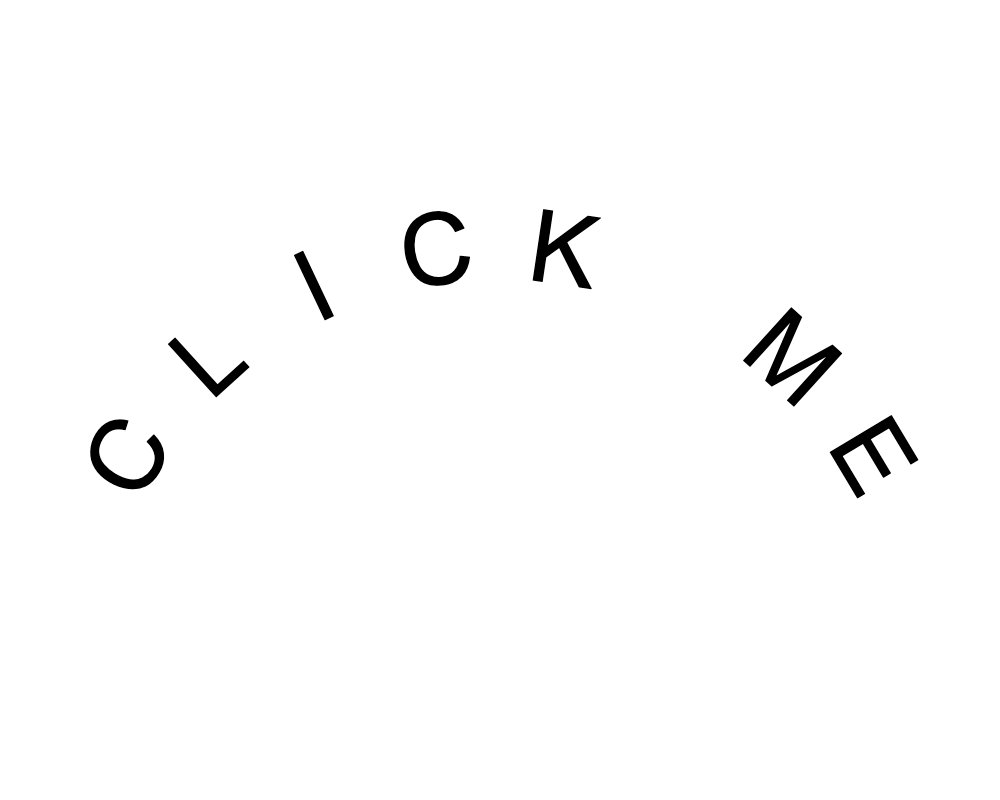
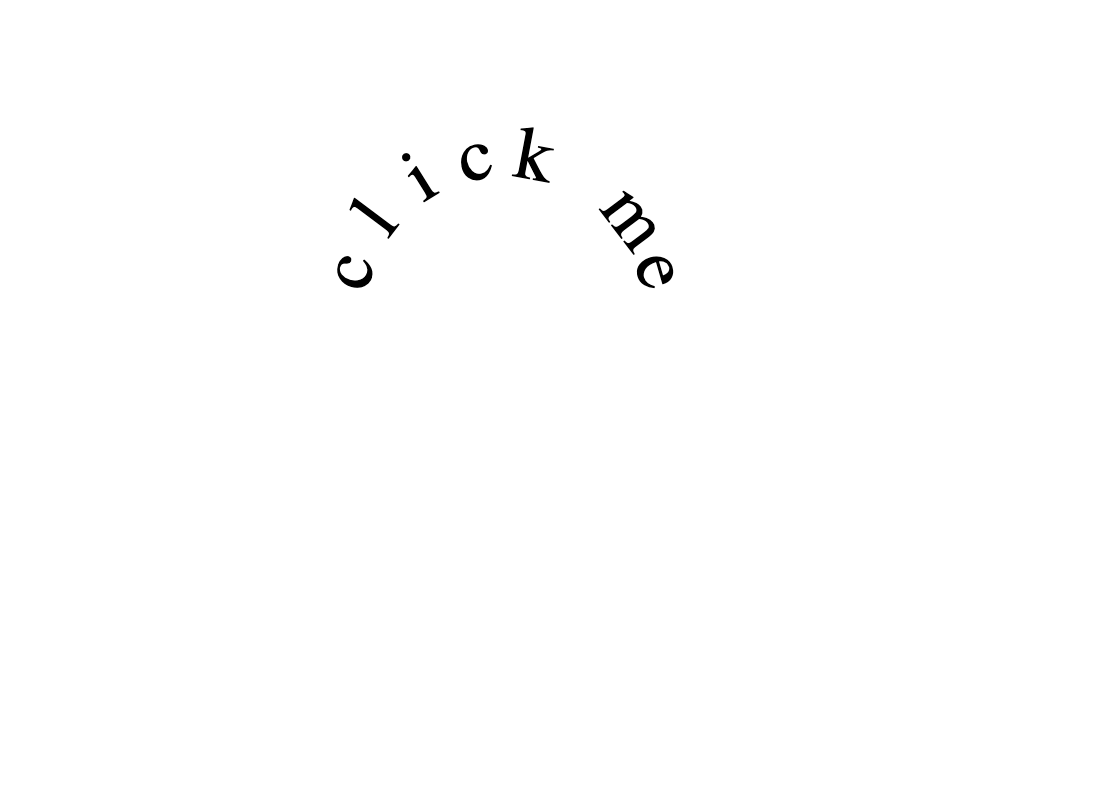
ajustements

diff --git a/src/Cartes.js b/src/Cartes.js
@@ -43,9 +43,9 @@ const obj2 = {
   title: "My other life",
   gif: cycling_Gif,
   img: cycling_Img,
-  description: `When I'm not coding, you might see Ableton Live open on my mac, and if not behind my computer you might see me cycling on a lost road.
+  description: `When I'm not coding, you might see a music production software open on my Mac, and if not behind a computer you might see me cycling on a lost road.
     \n>Travels
-    \nIn 2012 I discovered the world on a 16.000km bicycle journey from Paris to Australia. I kept going later with two other travels on two wheels in Morocco and South America. 
+    \nIn 2012 I discovered the world on a 16.000km bicycle journey from Paris to Australia. I kept going later with two other travels on two wheels. Where should I go next ?
     \n>Music
     I am a pianist, guitarist and I compose atmospheric electronic music, and I enjoy teaching any of this to beginners.
     `,
@@ -68,12 +68,11 @@ const obj4 = {
   title: "MeilleurTaux.com",
   gif: MT_Gif,
   img: MT_Img,
-  description: `This is a fullstack simplified version of www.meilleurtaux.com, a french website that gives you quotes for loans.
-A cookie and a React state help you save the datas you entered even if you close the tab. You will automatically come back to where you left the form.
-
+  description: `This is a fullstack simplified version of www.meilleurtaux.com, a french website that gives quotes for loans.
+A cookie saves all the datas entered in the forms after you close the tab. Re-opening it will take you back were you left the form.
 I added a few sounds for the fun, and a back-office with a very ... "modern" design with a random color generator ;)
-The percentage bar and its turning wheel are CSS home made !
-    \n>stack
+The percentage bar and turning wheel are CSS home made.
+    \n>Stack
     \nFrontend: React, CSS, Axios, the Vipoco API is used to propose ZipCodes
     \nBackend: Node.js, express, mongoDB, MailGun
     `,
@@ -87,9 +86,9 @@ const obj5 = {
   title: "Giant Tic Tak Toe",
   gif: TTT_Gif,
   img: TTT_Img,
-  description: `When I was bored in a classroom in highschool, I used to take a blank graph paper out of my bag, cross a first square, pass it to my neighbour and this was the beginning of long game of tic tac toe with no boundaries ! Any line of 4 X's or O's was worth one point.
+  description: `When I was bored in a classroom in highschool, I used to take a blank graph paper out of my bag, cross a square, pass it to my neighbour and this was the beginning of long Tic Tac Toe with no boundaries ! Any line of 4 X's or O's was worth one point.
     \n Here is the modern desktop version of it ! Enter a username and challenge anybody who is connected
-    \n>stack
+    \n>Stack
     \nFrontend: Node.js, React, CSS, Axios, 
     \nBackend: Node.js, express, websocket,
     \n>Next steps
@@ -105,14 +104,12 @@ const obj6 = {
   title: "Leboncoin.com",
   gif: leboncoin_Gif,
   img: leboncoin_Img,
-  description: `This is a demo copy of french CraigList. Feel free to SignUp and post your own fake products.
-\n>features:
+  description: `This is a simplified copy of the french Craigslist. Feel free to sign up and post your own fake products.
+\n>Features:
 \nConsult posts, filter by name, secure signup, secure login, create a post, upload multiple photos
-\n>stack:
-Front end is made with React. After you authentify, a Cookie will save the infos so you don't need to authent again
-The BackEnd is made with javascript / express
-The authentification is made with a salt/hash algorithm
-The photos are hosted on Cloudinary service`,
+\n>Stack:
+Front-end: React, js-cookie
+Back-end: Node.js, Express, Salt/Hash, Cloudinary`,
   link1: "https://leboncoinfullstack.netlify.com/",
   button1: "Check it out live",
   link2: "https://leboncoinfullstack.netlify.com/",
@@ -121,38 +118,37 @@ The photos are hosted on Cloudinary service`,
 /* # # # # # # FRANC MANGER # # # # # # # # # # # # # # # */
 const obj7 = {
   title: "Le Franc Manger",
-  description: `This MVP was made for a parisian startup whose goal is to bring closer consumers and local farmers.
-    \n>features
-    The map is centered on the user localisation and shows all producers 30km around. You can filter the producers by type of products.
-    \n>stack
-    \nFrontend: ReactNative, geolocalisation,
+  description: `We developed this MVP for a parisian start-up whose goal is to bring closer consumers and local farmers.
+    \n>Features
+    The map shows all producers 30km around. You can filter the producers by type of products. 
+    \n>Stack
+    \nFrontend: ReactNative, Geolocalisation,
     \nBackend: Node.js, express, mongoDB, Cloudinary`,
   gif: francmanger_Img,
   img: francmanger_Gif
 };
 /* # # # # # # AirBnB # # # # # # # # # # # # # # # */
 const obj8 = {
-  title: "Airbnb s",
+  title: "Airbnb's",
   gif: airbnb_Img,
   img: airbnb_Gif,
   description: `This is a simplified version of the Airbnb app
-    \n>features
-    login, signup with profile photo upload, consultation of the places around, map view. 
-    \n>stack
-    \n Made with React Native`,
+    \n>Features
+    login, sign-up, upload a profile photo, consult the places around, map view. 
+    \n>Stack
+    \nReact Native`,
   link2: "https://github.com/MgRl8ow3MhVr/airbnbReactNative",
   button2: "Github repo"
 };
 /* # # # # # # THIS WEBSITE # # # # # # # # # # # # # # # */
 const obj9 = {
-  title: "this.website d",
+  title: "this.webdsite",
   description:
-    "I hope you enjoyed this website experience ! It was home made with react/html/css",
+    "I hope you enjoyed this website experience, it was home made with react/html/css",
   gif: thiswebsite_Gif,
   img: thiswebsite_Img,
-  // img: demo_mp4_cloud,
-  link2: "https://pierredev.netlify.com/",
-  button2: "recursive visit",
+  link1: "https://pierredev.netlify.com/",
+  button1: "visit recursively",
   link2: "https://github.com/MgRl8ow3MhVr/portfolio",
   button2: "Github repo"
 };

diff --git a/src/App.css b/src/App.css
@@ -56,26 +56,25 @@ body {
   background-color: #d8b4a0;
 }
 
+/* CLICK ME */
+
 .subtitle img:nth-child(1) {
   position: absolute;
   z-index: 10;
   margin: 10px 0 10px 0;
-  width: 50px;
-  top: -7px;
-  right: -4px;
+  width: 135px;
+  top: -14px;
+  right: -50px;
   transition: all 0.1s;
   animation: turn 2s infinite ease;
 }
+/* LE Dé */
 
 .subtitle img:nth-child(2) {
   margin: 10px 0 10px 0;
-  width: 40px;
+  width: 47px;
   transition: all 0.1s;
-  border-radius: 20px;
   animation: turn 2s infinite ease;
-  border: solid 1px;
-
-  /* box-shadow: 7px 10px 9px -6px rgba(0, 0, 0, 0.75); */
 }
 .subtitle img:active {
   transform: scale(0.9);
@@ -89,7 +88,7 @@ body {
 .subtitle svg:hover {
   /* transform: rotate(360deg); */
   cursor: pointer;
-  animation: turn 3s infinite ease;
+  animation: turn 6s infinite ease;
 }
 .subtitle svg:active {
   transform: scale(0.8);
@@ -280,7 +279,7 @@ body {
   opacity: 0.8;
   padding: 5px 20px 0px 20px;
   margin-top: 89%;
-  max-height: calc(100% - 5px);
+  -height: calc(100% - 5pmaxx);
   min-height: 40%;
   display: flex;
   flex-direction: column;
@@ -324,6 +323,7 @@ h2 {
   opacity: 1;
   font-weight: bold;
   margin: 10px;
+  font-size: 18px;
 }
 
 .description a:hover {
@@ -360,6 +360,7 @@ h2 {
     letter-spacing: 8px;
     font-size: 15px;
   }
+  /* TITELS */
 
   .t1 {
     font-size: 50px;
@@ -379,5 +380,44 @@ h2 {
   }
   .t2h {
     font-size: 13px;
+  }
+
+  /* DESCRIPTION */
+  .description p {
+    font-size: 13px;
+    color: white;
+  }
+  .description > div {
+    height: auto;
+  }
+  .description a {
+    background-color: #d8b4a0;
+    border-radius: 3px;
+    margin-top: 0px;
+    padding: 5px 20px 5px 20px;
+    opacity: 1;
+    font-weight: bold;
+    margin: 10px;
+    font-size: 14px;
+  }
+
+  /* DE ET CLICK ME */
+  .subtitle img:nth-child(1) {
+    position: absolute;
+    z-index: 10;
+    margin: 10px 0 10px 0;
+    width: 80px;
+    top: -9px;
+    right: -28px;
+    transition: all 0.1s;
+    animation: turn 2s infinite ease;
+  }
+  /* LE Dé */
+
+  .subtitle img:nth-child(2) {
+    margin: 10px 0 10px 0;
+    width: 30px;
+    transition: all 0.1s;
+    animation: turn 2s infinite ease;
   }
 }

diff --git a/src/App.js b/src/App.js
@@ -10,17 +10,30 @@ import click from "./assets/click.png";
 
 function App() {
   // const wordsList = ["back", ".js", "r.native"", "front","express"];
-  const wordsList = ["frontend", "mongo.db", "express", "algorithm"];
   // const wordsList = [
-  //   "malleret",
-  //   "pierre",
-  //   "fullstack",
-  //   "react",
+  //   "frontend",
+  //   "mongo.db",
+  //   "express",
   //   "algorithm",
-  //   "front",
-  //   "html",
-  //   ".js"
+  //   "git",
+  //   "github"
   // ];
+  const wordsList = [
+    "fullstack",
+    "malleret",
+    "react",
+    "algorithm",
+    "pierre",
+    "frontend",
+    "html",
+    "node.js",
+    "backend",
+    "mongo.db",
+    "express",
+    "algorithm",
+    "git",
+    "github"
+  ];
   const [carts, setCarts] = useState([
     false,
     false,
